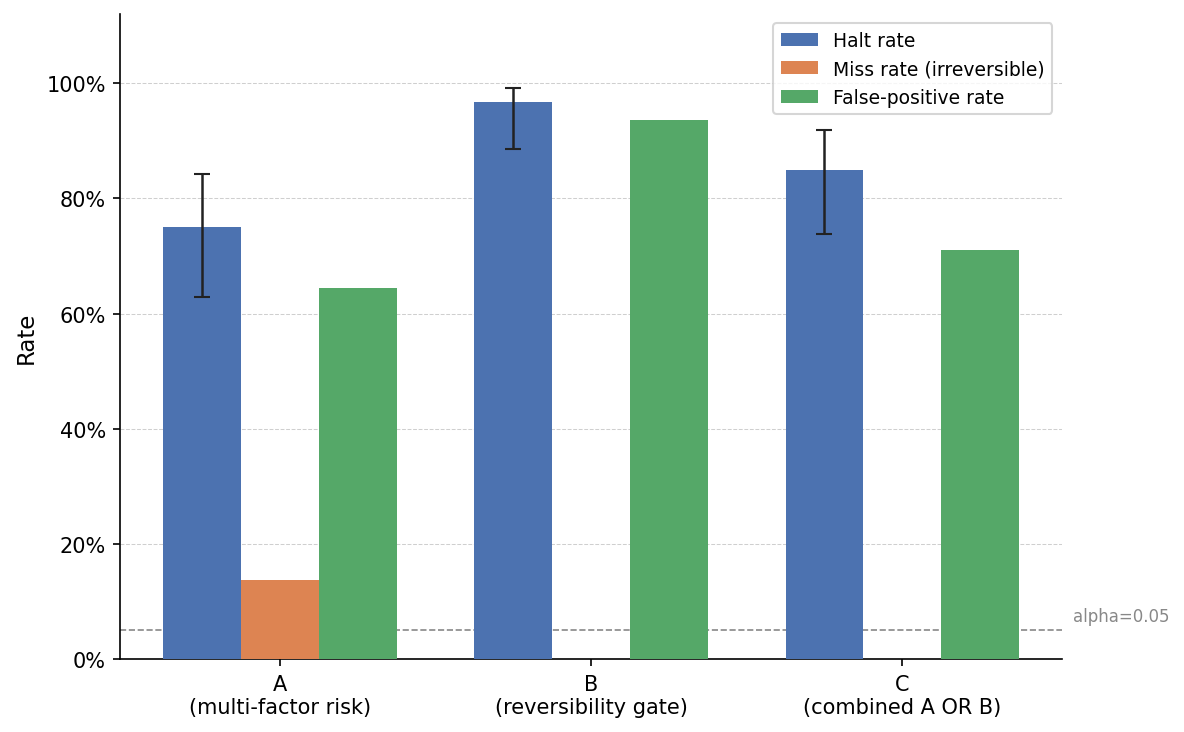
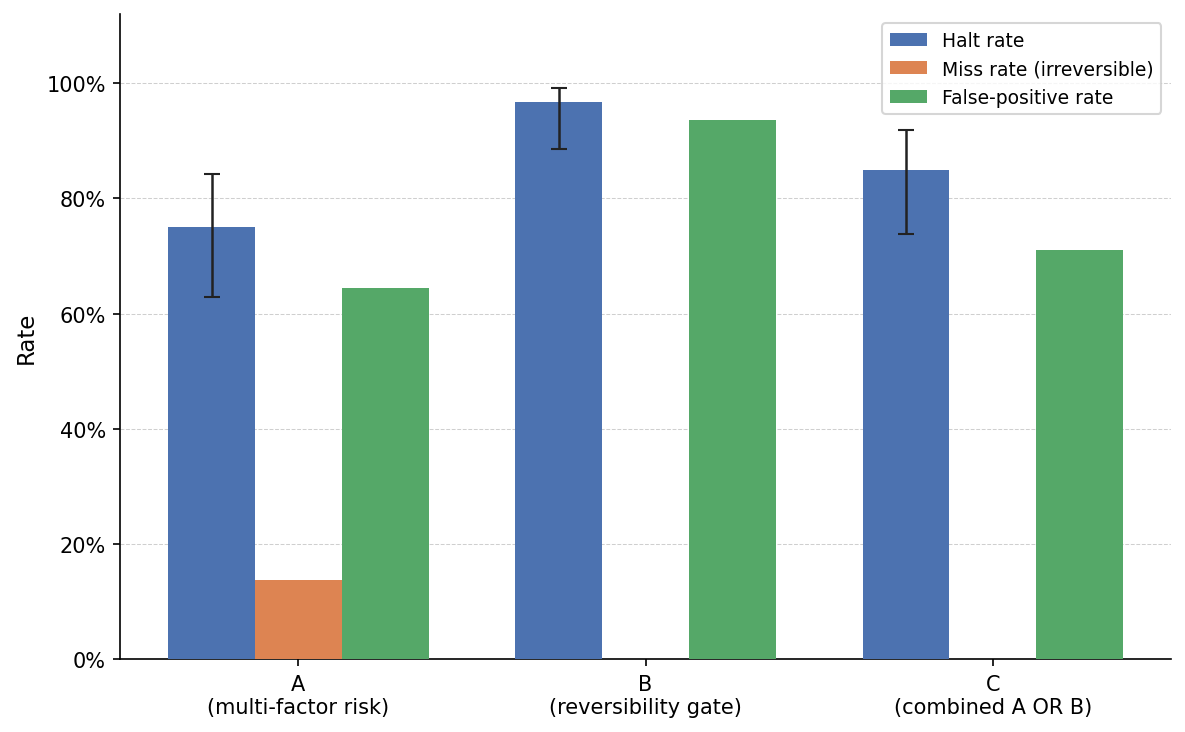
fix(figures): remove spurious alpha line, fix legend labels

diff --git a/figures/fig2-low-irrev-cell.py b/figures/fig2-low-irrev-cell.py
@@ -21,9 +21,9 @@ fig, ax = plt.subplots(figsize=(6, 4.5))
 fig.patch.set_facecolor('white')
 ax.set_facecolor('white')
 
-bars_halt = ax.bar(x, LI_HALT, width, label='Halted (correct)', color='#4C72B0', zorder=3)
+bars_halt = ax.bar(x, LI_HALT, width, label='Halt', color='#4C72B0', zorder=3)
 bars_pass = ax.bar(x, LI_PASS, width, bottom=LI_HALT,
-                   label='Passed (missed)', color='#DD8452', zorder=3)
+                   label='Pass (missed)', color='#DD8452', zorder=3)
 
 # Annotate counts inside bars
 for i, (h, p) in enumerate(zip(LI_HALT, LI_PASS)):

diff --git a/figures/fig1-classifier-metrics.py b/figures/fig1-classifier-metrics.py
@@ -46,8 +46,6 @@ ax.set_xticklabels(CLASSIFIERS, fontsize=10)
 ax.set_ylabel('Rate', fontsize=11)
 ax.set_ylim(0, 1.12)
 ax.yaxis.set_major_formatter(plt.FuncFormatter(lambda v, _: f'{v:.0%}'))
-ax.axhline(0.05, color='#888888', linewidth=0.8, linestyle='--', zorder=2)
-ax.text(2.55, 0.06, 'alpha=0.05', color='#888888', fontsize=8, va='bottom')
 ax.legend(fontsize=9, loc='upper right')
 ax.grid(axis='y', linestyle='--', linewidth=0.5, alpha=0.6, zorder=0)
 ax.spines['top'].set_visible(False)

diff --git a/README.md b/README.md
@@ -54,7 +54,7 @@ headline cell and the single-model-family constraint.
 
 ![Grouped bar chart showing halt rate with 95% CI error bars, miss rate on irreversible items, and false-positive rate for Classifiers A, B, and C](figures/fig1-classifier-metrics.png)
 
-*Figure 1: Halt rate (with 95% CI), miss rate on irreversible items, and false-positive rate per classifier. Dashed line at alpha=0.05 for reference.*
+*Figure 1: Halt rate (with 95% CI error bars), miss rate on irreversible items, and false-positive rate per classifier.*
 
 ![Stacked bar chart showing li_halt vs li_pass counts for each classifier in the low-risk irreversible cell, with Fisher p annotations](figures/fig2-low-irrev-cell.png)
 
